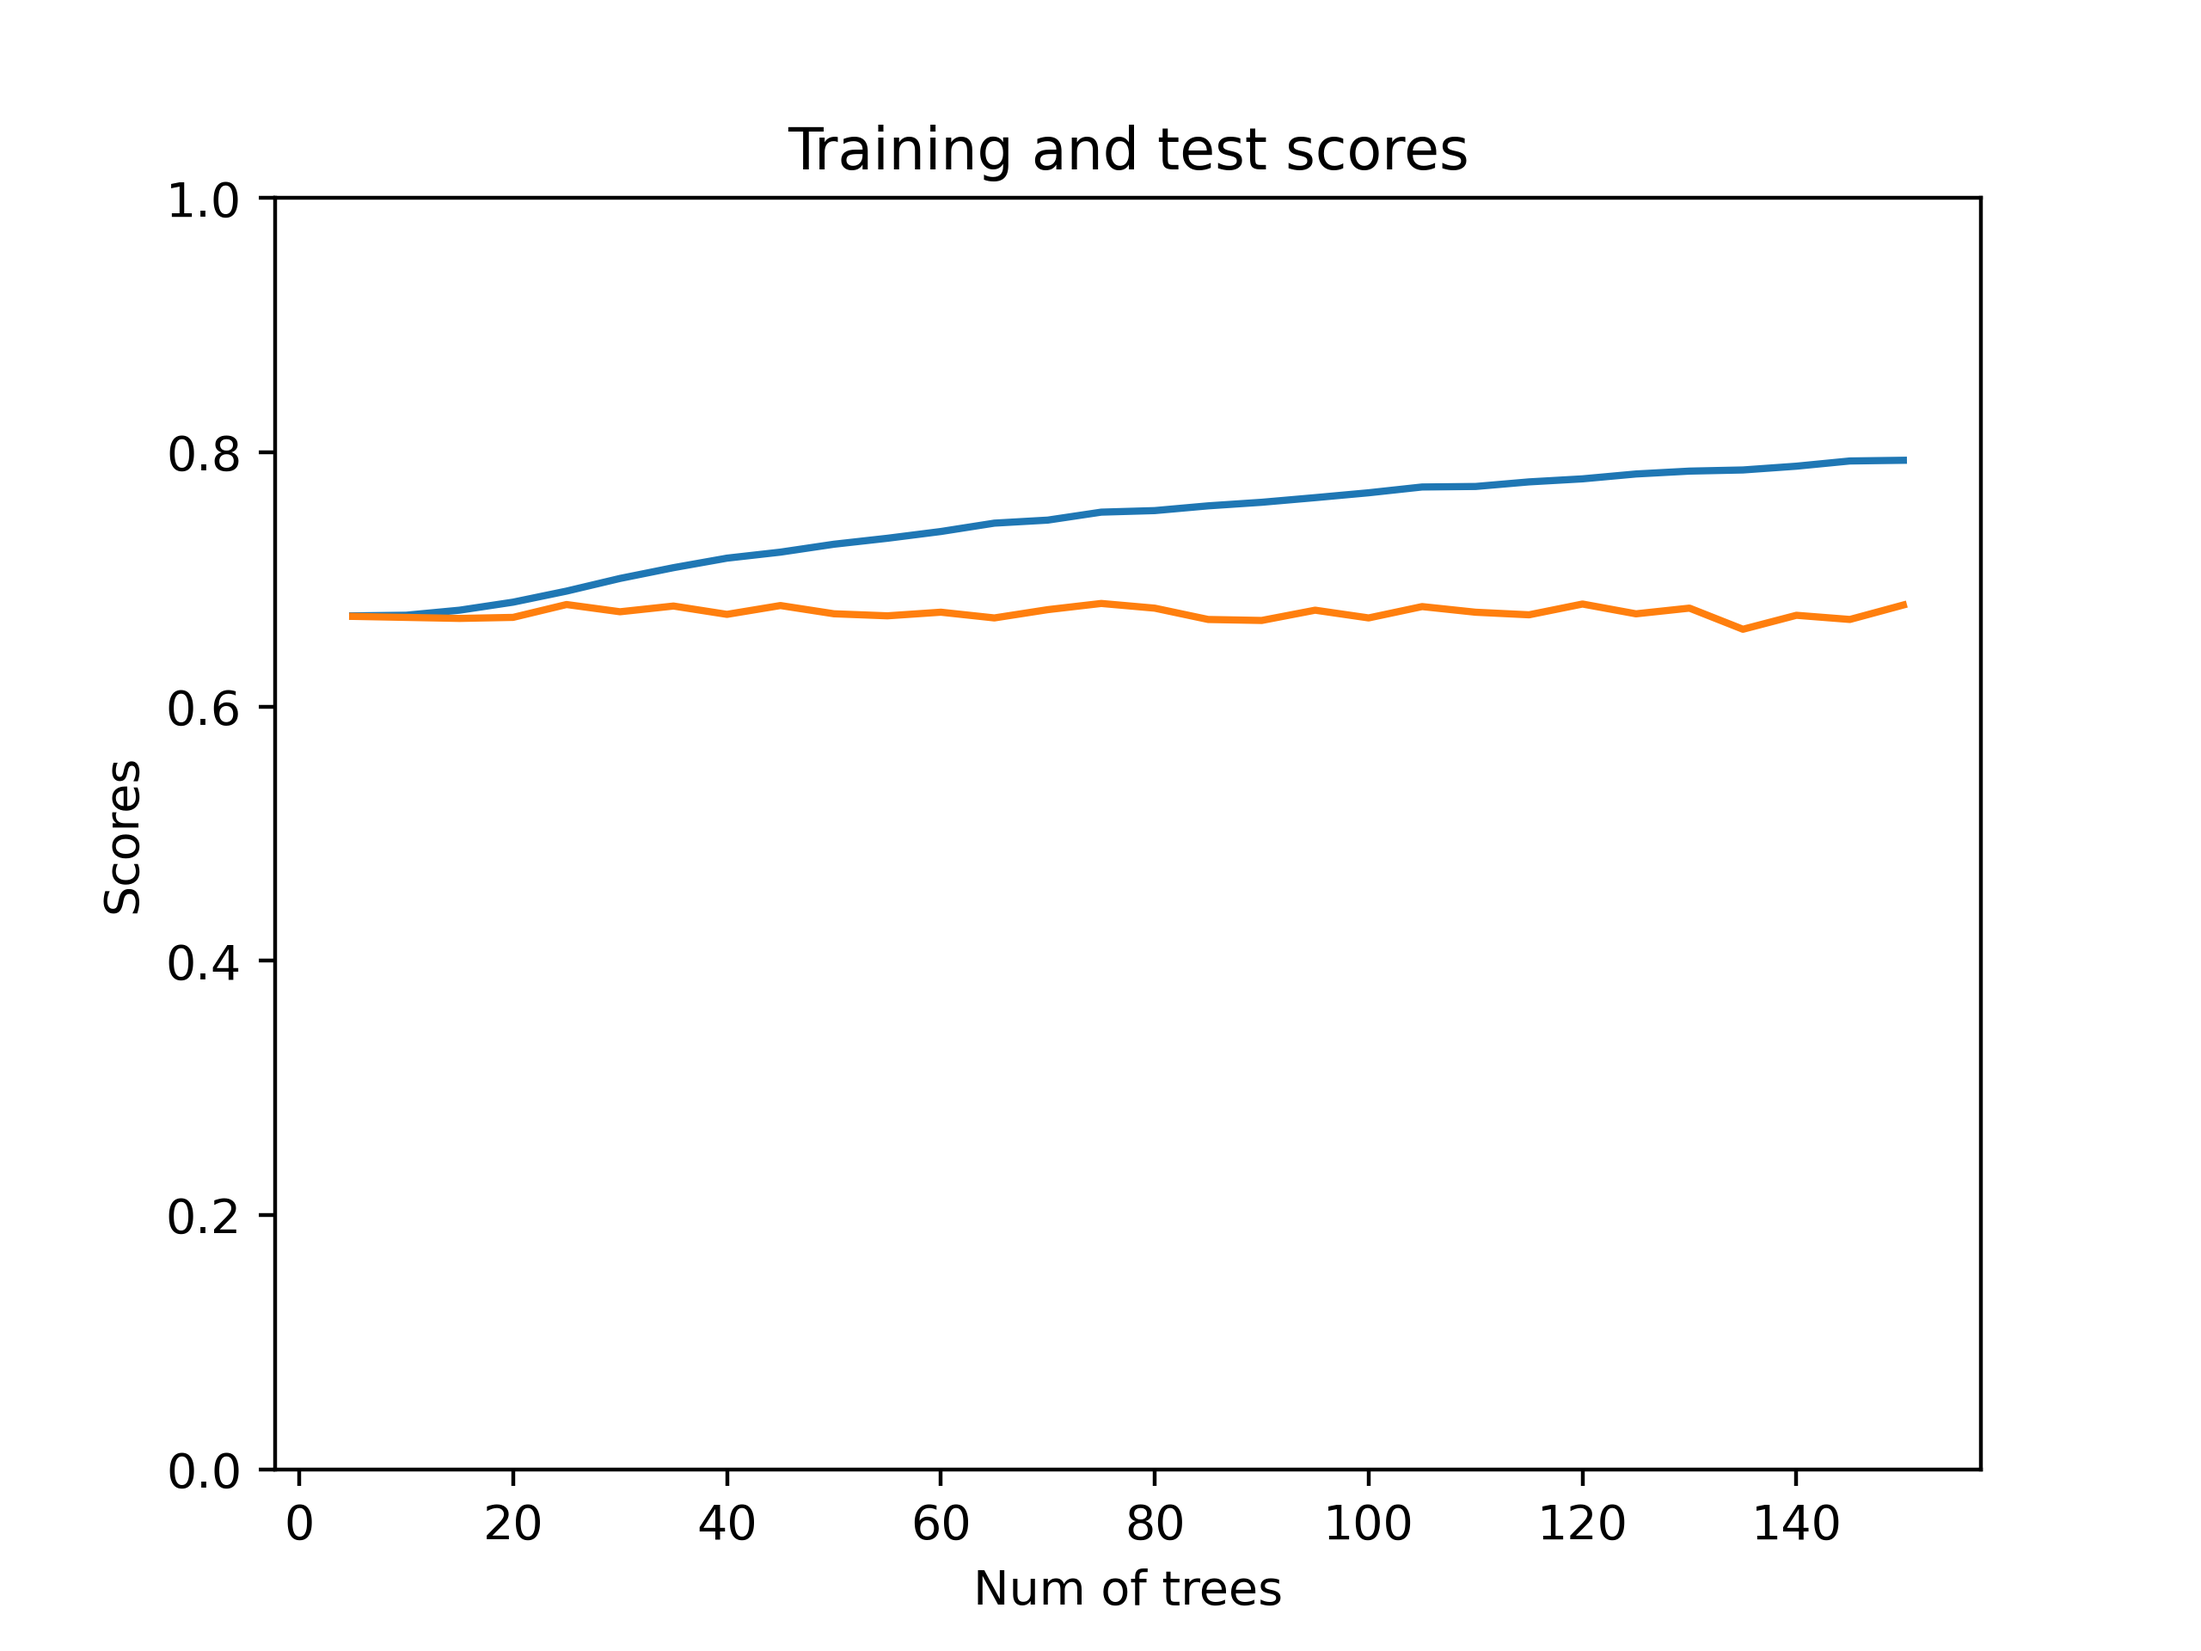
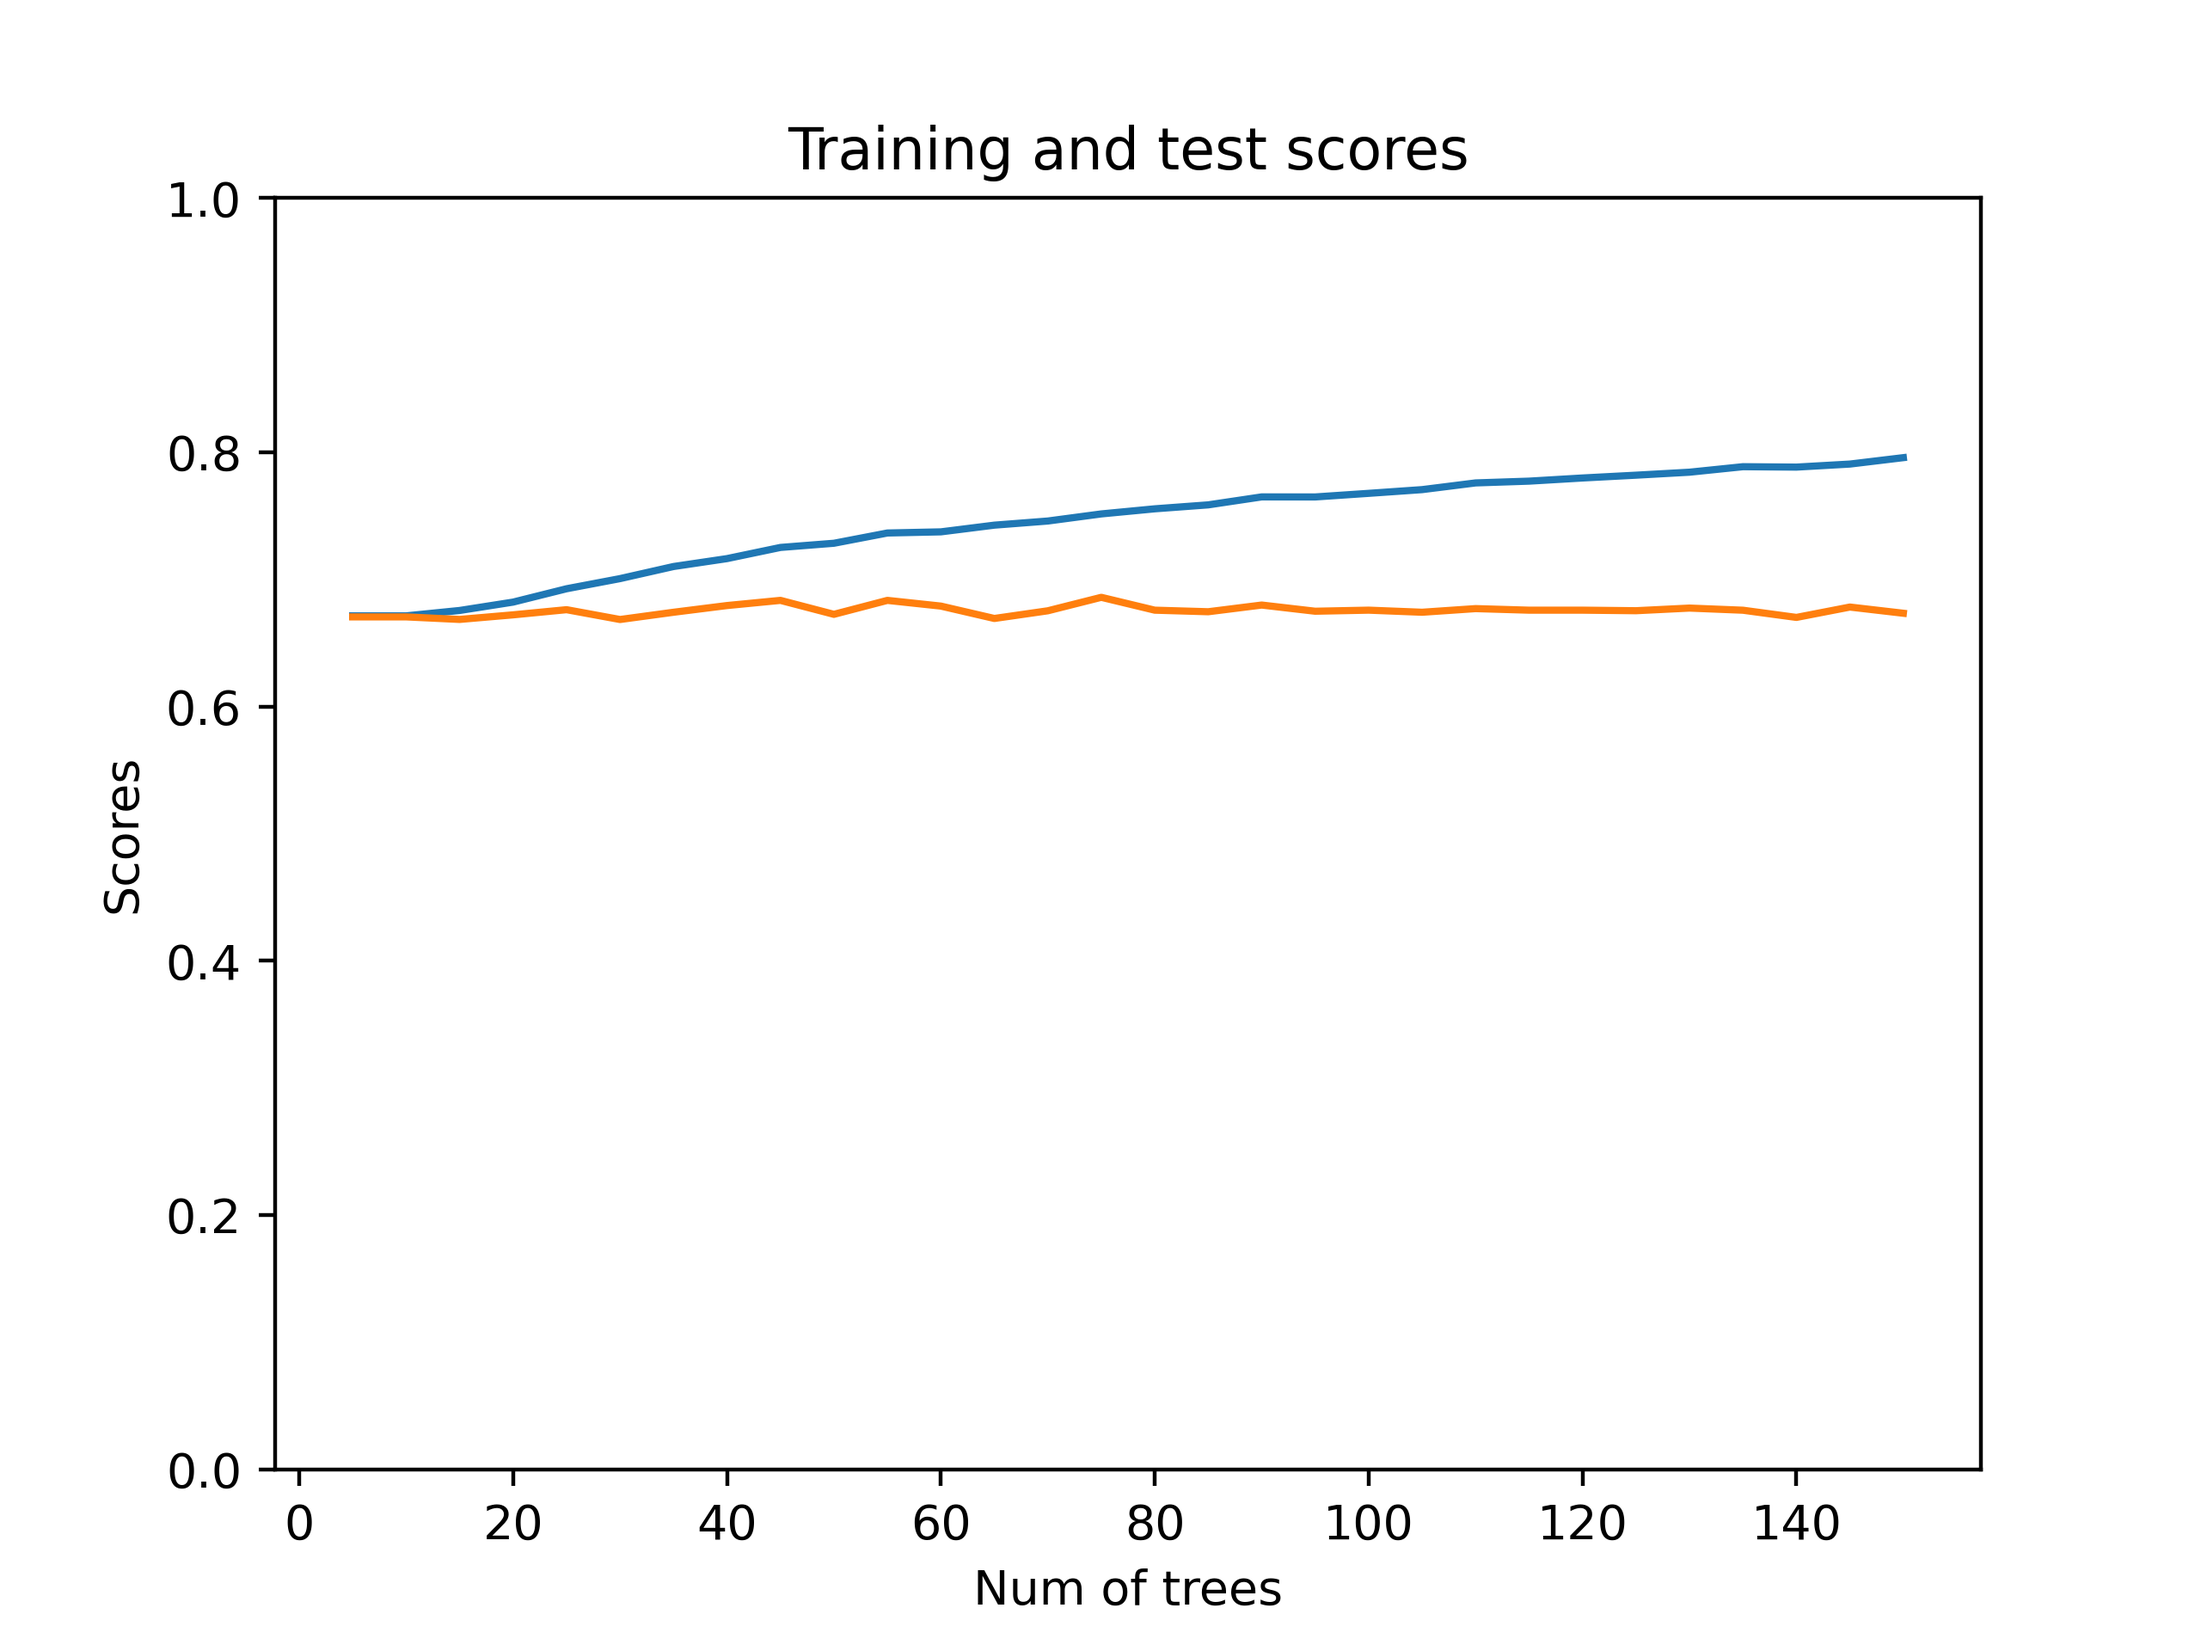
finished supervised

diff --git a/source/supervised.py b/source/supervised.py
@@ -178,13 +178,13 @@ def supervised_main():
                                            "IS_HOMICIDE", "VICTIM_RACE", "ARRESTED_RACE", "VICTIM_SEX"])
     y: pd.Series = ds_new["IS_HOMICIDE"]
 
-    #tree_training(X, y)  # result -> the best criterion is entropy
-    #random_forest_training(X, y)
-    #random_forest_training_depth(X, y)
-    #ada_boost_training(X, y)
-    #gradient_boosting_training(X, y)
+    tree_training(X, y)  # result -> the best criterion is entropy
+    random_forest_training(X, y)
+    random_forest_training_depth(X, y)
+    ada_boost_training(X, y)
+    gradient_boosting_training(X, y)
 
-    #print_features_importances(X, y)
+    print_features_importances(X, y)
 
     # --------------------| Learning part 2 |----------------------
     # prepare data for Naive Bayes
@@ -200,13 +200,27 @@ def supervised_main():
                                        "IS_HOMICIDE", "VICTIM_RACE", "ARRESTED_RACE", "VICTIM_SEX"], axis=1)
     y_final = df_final["IS_HOMICIDE"]
 
-    #tree_training(X_final, y_final, directory="final/")
-    #random_forest_training(X_final, y_final, directory="final/")
-    #random_forest_training_depth(X_final, y_final, directory="final/")
-    #ada_boost_training(X_final, y_final, directory="final/")
-    #gradient_boosting_training(X_final, y_final, directory="final/")
+    tree_training(X_final, y_final, directory="final/")
+    random_forest_training(X_final, y_final, directory="final/")
+    random_forest_training_depth(X_final, y_final, directory="final/")
+    ada_boost_training(X_final, y_final, directory="final/")
+    gradient_boosting_training(X_final, y_final, directory="final/")
 
-    # print_features_importances(X_final, y_final)
+    print_features_importances(X_final, y_final)
+
+    # export_the best tree among 10
+    export_tree(X_final, y_final)
+
+
+def export_tree(X, y):
+    best_tree, train_sc, test_sc, \
+        test_prec, test_rec, test_f = k_fold(X, y, 10, classifier=DecisionTreeClassifier(max_depth=5, criterion="entropy"))
+    tree.export_graphviz(best_tree,
+                         feature_names=X.columns.tolist(),
+                         class_names=list(map(lambda x: str(x), y.unique().tolist())),
+                         filled=True,
+                         rounded=True,
+                         out_file="../models/best_tree.dot")
 
 
 def print_features_importances(X, y):
@@ -318,6 +332,7 @@ def nb_categorical_training(X: pd.DataFrame, y: pd.Series):
     best_nb, train_sc, test_sc, test_prec, test_rec, test_f = k_fold(
         X, y, 10, CategoricalNB(min_categories=X.nunique()), verbose=True)
 
+    print(f"Media train acc: {train_sc}")
     print(f"Media test acc: {test_sc}")
     print(f"Media test prec: {np.average(test_prec)}")
     print(f"Media test rec: {np.average(test_rec)}")
